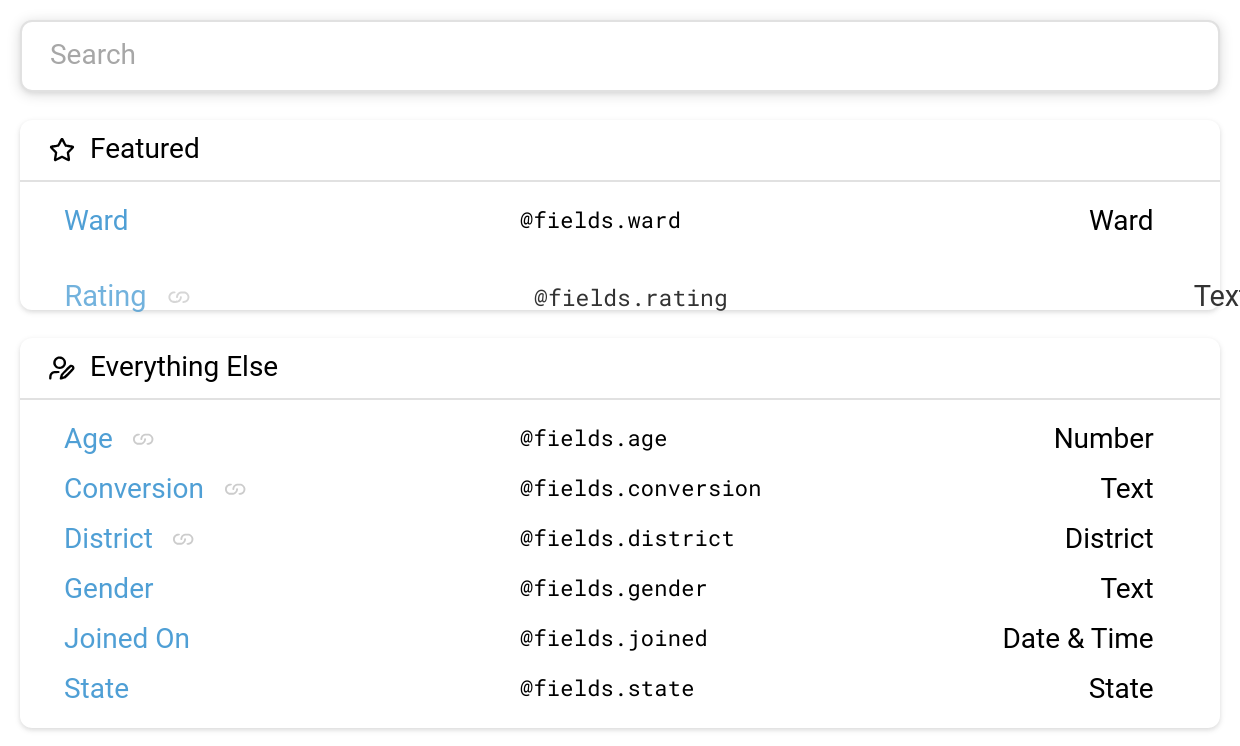
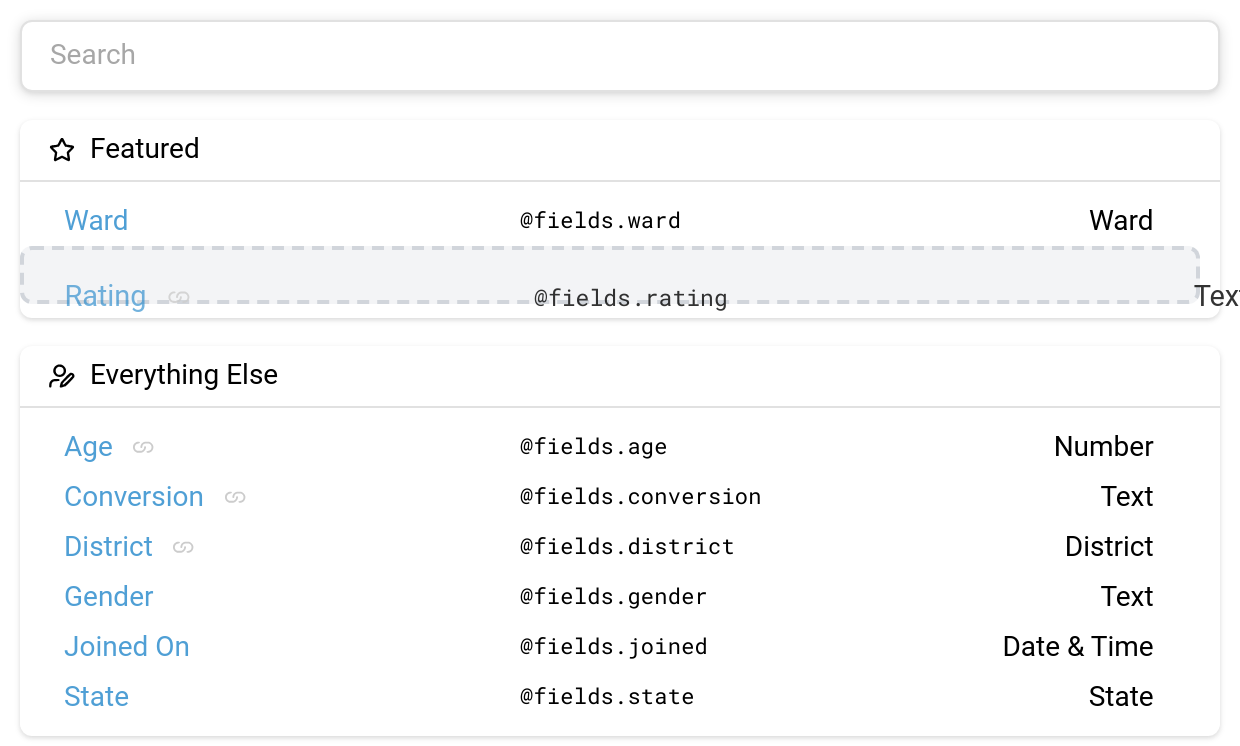
Proper dragged item height for external drags

diff --git a/src/flow/CanvasNode.ts b/src/flow/CanvasNode.ts
@@ -47,6 +47,9 @@ export class CanvasNode extends RapidElement {
   private nodeClickStartPos: { x: number; y: number } | null = null;
   private pendingNodeClick: { event: MouseEvent } | null = null;
 
+  // Track the height of the action being dragged (captured at drag start)
+  private draggedActionHeight: number = 0;
+
   // Track external action drag (action being dragged from another node)
   private externalDragInfo: {
     action: Action;
@@ -385,6 +388,7 @@ export class CanvasNode extends RapidElement {
   constructor() {
     super();
     this.handleActionOrderChanged = this.handleActionOrderChanged.bind(this);
+    this.handleActionDragStart = this.handleActionDragStart.bind(this);
     this.handleActionDragExternal = this.handleActionDragExternal.bind(this);
     this.handleActionDragInternal = this.handleActionDragInternal.bind(this);
     this.handleActionDragStop = this.handleActionDragStop.bind(this);
@@ -713,6 +717,20 @@ export class CanvasNode extends RapidElement {
       .updateNode(this.node.uuid, { ...this.node, actions: newActions });
   }
 
+  private handleActionDragStart(event: CustomEvent) {
+    // Capture the height of the action being dragged
+    const actionId = event.detail.id;
+    const actionElement = this.querySelector(`#${actionId}`) as HTMLElement;
+
+    if (actionElement) {
+      const rect = actionElement.getBoundingClientRect();
+      this.draggedActionHeight = rect.height;
+    } else {
+      // Fallback to a reasonable default
+      this.draggedActionHeight = 60;
+    }
+  }
+
   private handleActionDragExternal(event: CustomEvent) {
     // stop propagation of the original event from SortableList
     event.stopPropagation();
@@ -727,13 +745,14 @@ export class CanvasNode extends RapidElement {
     const actionIndex = parseInt(splitId[1], 10);
     const action = this.node.actions[actionIndex];
 
-    // fire event to editor to show canvas drop preview
+    // fire event to editor to show canvas drop preview, including the captured height
     this.fireCustomEvent(CustomEventType.DragExternal, {
       action,
       nodeUuid: this.node.uuid,
       actionIndex,
       mouseX: event.detail.mouseX,
-      mouseY: event.detail.mouseY
+      mouseY: event.detail.mouseY,
+      actionHeight: this.draggedActionHeight
     });
   }
 
@@ -1016,7 +1035,8 @@ export class CanvasNode extends RapidElement {
     // Only handle if this is an execute_actions node
     if (this.ui.type !== 'execute_actions') return;
 
-    const { action, sourceNodeUuid, actionIndex, mouseY, actionHeight } = event.detail;
+    const { action, sourceNodeUuid, actionIndex, mouseY, actionHeight } =
+      event.detail;
 
     // Don't accept drops from the same node
     if (sourceNodeUuid === this.node.uuid) return;
@@ -1355,6 +1375,7 @@ export class CanvasNode extends RapidElement {
                 dragHandle="drag-handle"
                 externalDrag
                 @temba-order-changed="${this.handleActionOrderChanged}"
+                @temba-drag-start="${this.handleActionDragStart}"
                 @temba-drag-external="${this.handleActionDragExternal}"
                 @temba-drag-internal="${this.handleActionDragInternal}"
                 @temba-drag-stop="${this.handleActionDragStop}"

diff --git a/src/flow/Editor.ts b/src/flow/Editor.ts
@@ -152,6 +152,7 @@ export class Editor extends RapidElement {
     nodeUuid: string;
     actionIndex: number;
     position: FlowPosition;
+    actionHeight: number;
   } | null = null;
   @state()
   private addActionToNodeUuid: string | null = null;
@@ -1462,7 +1463,14 @@ export class Editor extends RapidElement {
   }
 
   private handleActionDragExternal(event: CustomEvent): void {
-    const { action, nodeUuid, actionIndex, mouseX, mouseY } = event.detail;
+    const {
+      action,
+      nodeUuid,
+      actionIndex,
+      mouseX,
+      mouseY,
+      actionHeight = 60
+    } = event.detail;
 
     // Check if mouse is over another execute_actions node
     const targetNode = this.getNodeAtPosition(mouseX, mouseY);
@@ -1476,8 +1484,10 @@ export class Editor extends RapidElement {
       // Only allow dropping on execute_actions nodes, and not the source node
       if (targetNodeUI?.type === 'execute_actions' && targetNodeDef) {
         // If we moved to a different target node, clear the previous one's placeholder
-        if (this.previousActionDragTargetNodeUuid && 
-            this.previousActionDragTargetNodeUuid !== targetNode) {
+        if (
+          this.previousActionDragTargetNodeUuid &&
+          this.previousActionDragTargetNodeUuid !== targetNode
+        ) {
           const previousElement = this.querySelector(
             `temba-flow-node[data-node-uuid="${this.previousActionDragTargetNodeUuid}"]`
           );
@@ -1509,16 +1519,6 @@ export class Editor extends RapidElement {
               bubbles: false
             })
           );
-        }
-
-        // Get dimensions of the dragged action from the source node
-        let actionHeight = 60; // default fallback
-        if (sourceElement) {
-          const actionElement = sourceElement.querySelector(`#action-${actionIndex}`) as HTMLElement;
-          if (actionElement) {
-            const rect = actionElement.getBoundingClientRect();
-            actionHeight = rect.height;
-          }
         }
 
         // Notify the target node about the drag
@@ -1584,7 +1584,8 @@ export class Editor extends RapidElement {
       action,
       nodeUuid,
       actionIndex,
-      position
+      position,
+      actionHeight
     };
 
     // Force re-render to update preview position
